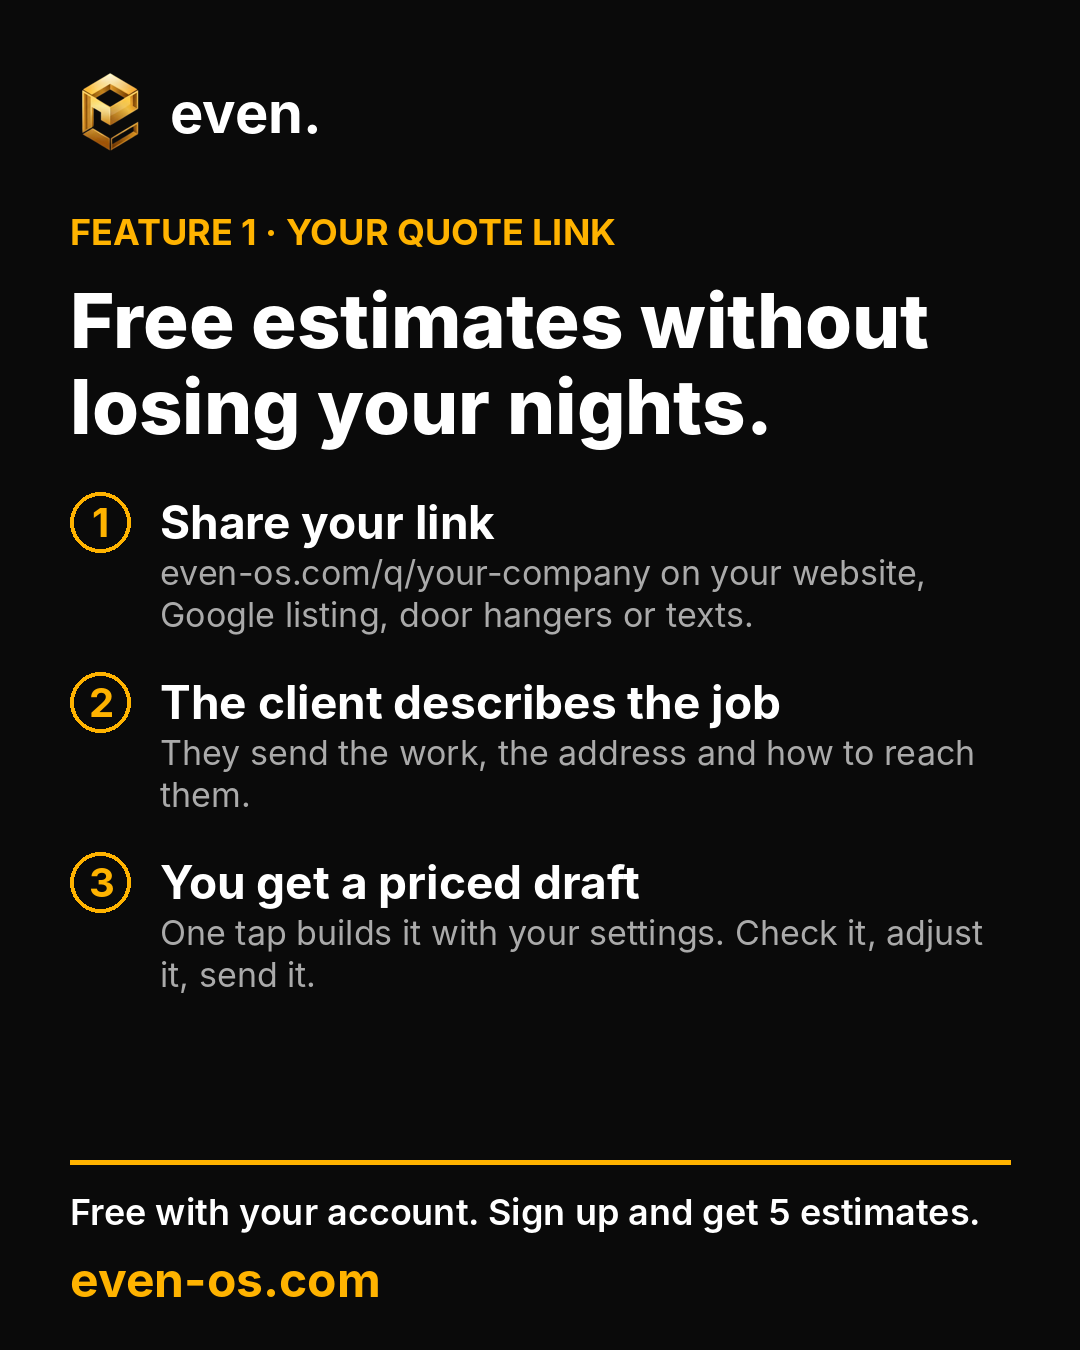
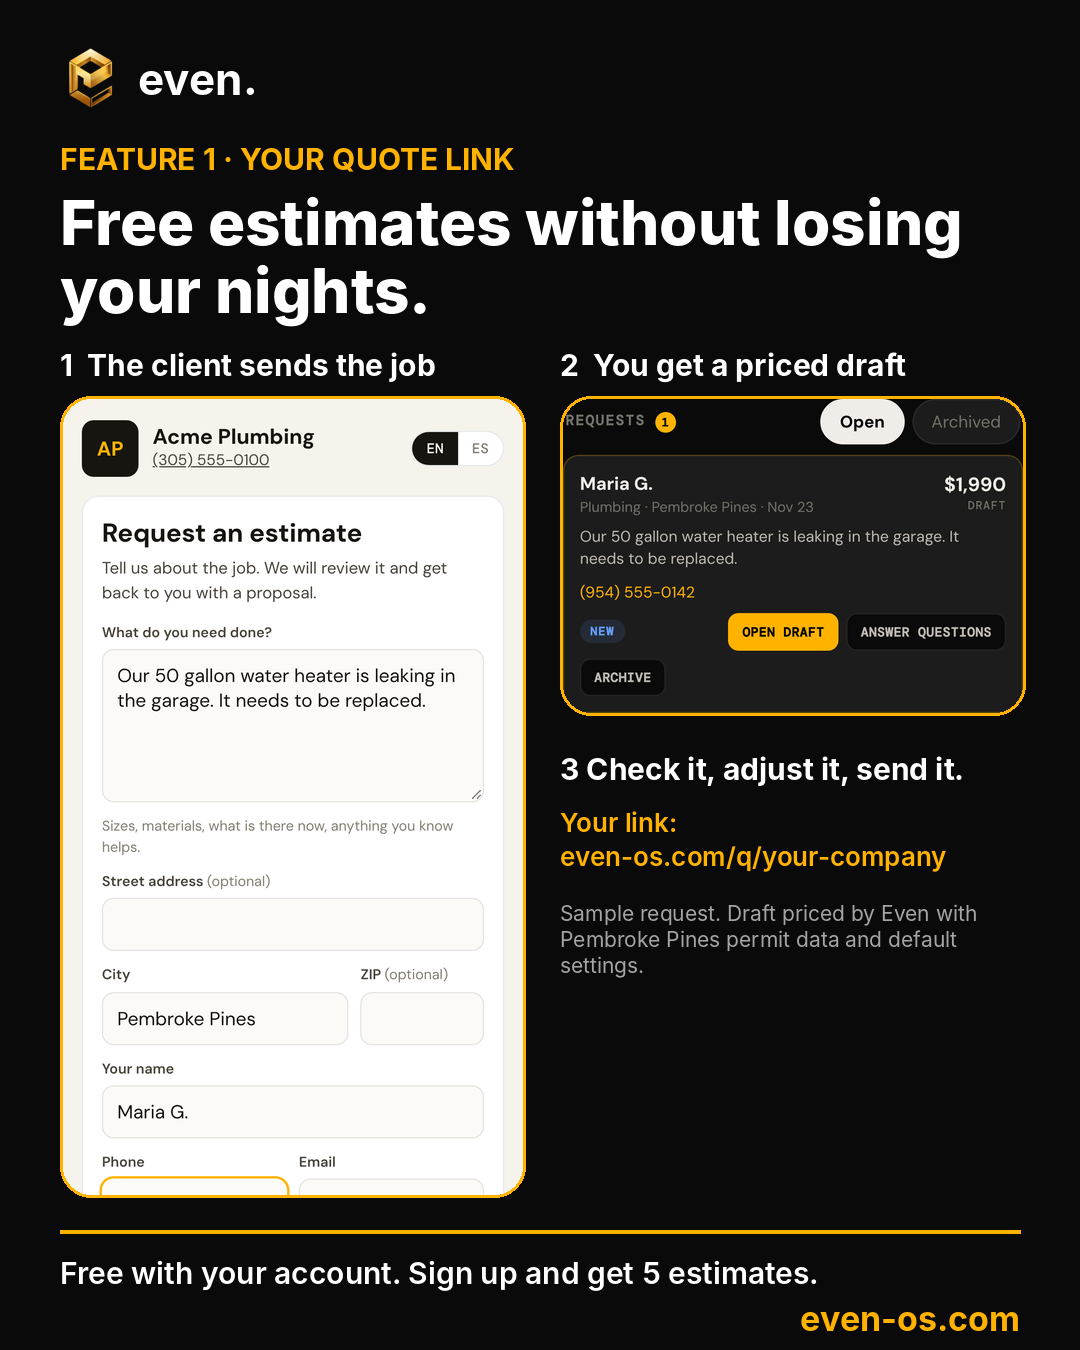
Week of Nov 23: photo posts redone with real app screenshots (quote link form + draft inbox, questions card)
Claude-Session: https://claude.ai/code/session_01XkLHUbM8K3mCJzsPXWybn3

diff --git a/marketing/export/make_feature_stills.py b/marketing/export/make_feature_stills.py
@@ -1,0 +1,91 @@
+# Photo posts with the feature ON SCREEN (founder rule 2026-11-23: every piece of
+# content shows the feature visually, never text only). Screenshots are the real
+# app pages with sample data (a made-up client); any price shown is computed by
+# the real pricing engine on real data, and the image says it is a sample.
+# Usage: python3 make_feature_stills.py <out_dir> <shots_dir>
+#   shots_dir: q_form_{en,es}.png, q_inbox_{en,es}.png (3x phone shots), qcard_{en,es}.png (2x frame)
+import os, sys
+from PIL import Image, ImageDraw, ImageFont
+
+OUT, SH = sys.argv[1], sys.argv[2]
+HERE = os.path.dirname(__file__)
+GOLD, WHITE, MUTED, BG, GREEN = (255, 179, 0), (255, 255, 255), (165, 165, 165), (10, 10, 10), (60, 207, 110)
+F = lambda w, s: ImageFont.truetype('/usr/share/fonts/opentype/inter/Inter-%s.otf' % w, s)
+LOGO = Image.open(os.path.join(HERE, '..', '..', 'assets', 'logo-hero.png')).convert('RGBA')
+W, H = 1080, 1350
+
+def wrap(d, text, font, width):
+    out, ln = [], ''
+    for w in text.split():
+        t = (ln + ' ' + w).strip()
+        if d.textlength(t, font=font) > width and ln: out.append(ln); ln = w
+        else: ln = t
+    return out + ([ln] if ln else [])
+
+def text(d, s, font, x, y, fill, width, gap=8):
+    for ln in wrap(d, s, font, width): d.text((x, y), ln, font=font, fill=fill); y += font.size + gap
+    return y
+
+def shot(img, w, radius=28, border=GOLD):
+    img = img.resize((w, int(img.height * w / img.width)), Image.LANCZOS)
+    m = Image.new('L', img.size, 0); ImageDraw.Draw(m).rounded_rectangle((0, 0, img.width - 1, img.height - 1), radius=radius, fill=255)
+    out = Image.new('RGBA', (img.width + 6, img.height + 6), (0, 0, 0, 0))
+    ImageDraw.Draw(out).rounded_rectangle((0, 0, img.width + 5, img.height + 5), radius=radius + 3, fill=border + (255,))
+    out.paste(img, (3, 3), m)
+    return out
+
+def base(tag, head):
+    im = Image.new('RGB', (W, H), BG); d = ImageDraw.Draw(im)
+    lg = LOGO.resize((64, 64)); im.paste(lg, (60, 46), lg); d.text((138, 52), 'even.', font=F('Bold', 44), fill=WHITE)
+    d.text((60, 140), tag, font=F('Bold', 30), fill=GOLD)
+    y = text(d, head, F('ExtraBold', 62), 60, 184, WHITE, W - 120, 6)
+    return im, d, y
+
+QL = {
+    'en': dict(tag='FEATURE 1 · YOUR QUOTE LINK', head='Free estimates without losing your nights.',
+               l1='1  The client sends the job', l2='2  You get a priced draft', l3='3  Check it, adjust it, send it.',
+               link='Your link: even-os.com/q/your-company', foot='Free with your account. Sign up and get 5 estimates.',
+               note='Sample request. Draft priced by Even with Pembroke Pines permit data and default settings.'),
+    'es': dict(tag='FUNCIÓN 1 · TU LINK DE COTIZACIÓN', head='Estimados gratis sin perder tus noches.',
+               l1='1  El cliente manda el trabajo', l2='2  Recibes un borrador con precio', l3='3  Revísalo, ajústalo y envíalo.',
+               link='Tu link: even-os.com/q/tu-empresa', foot='Gratis con tu cuenta. Regístrate y recibe 5 estimados.',
+               note='Solicitud de ejemplo. Borrador con precio de Even, con datos de permisos de Pembroke Pines y ajustes estándar.'),
+}
+for lang, t in QL.items():
+    im, d, y = base(t['tag'], t['head'])
+    y += 26
+    form = Image.open(os.path.join(SH, f'q_form_{lang}.png')); form = form.crop((0, 0, form.width, int(form.height * 0.80)))
+    inbox = Image.open(os.path.join(SH, f'q_inbox_{lang}.png'))
+    colw = (W - 60 * 2 - 40) // 2
+    d.text((60, y), t['l1'], font=F('Bold', 30), fill=WHITE); d.text((60 + colw + 40, y), t['l2'], font=F('Bold', 30), fill=WHITE)
+    y += 50
+    a = shot(form, colw); im.paste(a, (60, y), a)
+    b = shot(inbox, colw); im.paste(b, (60 + colw + 40, y), b)
+    ry = y + b.height + 34
+    ry = text(d, t['l3'], F('Bold', 30), 60 + colw + 40, ry, WHITE, colw) + 18
+    ry = text(d, t['link'], F('SemiBold', 26), 60 + colw + 40, ry, GOLD, colw) + 26
+    text(d, t['note'], F('Regular', 21), 60 + colw + 40, ry, MUTED, colw, 5)
+    d.rectangle((60, H - 120, W - 60, H - 117), fill=GOLD)
+    d.text((60, H - 96), t['foot'], font=F('SemiBold', 30), fill=WHITE)
+    d.text((W - 60 - d.textlength('even-os.com', font=F('Bold', 34)), H - 52), 'even-os.com', font=F('Bold', 34), fill=GOLD)
+    im.save(os.path.join(OUT, f'3-wed-feature-1-quote-link-{lang}.png'))
+
+V14 = {
+    'en': dict(tag='EVEN 1.4 · WHAT\'S NEW', head='Your estimate builds as you answer.',
+               items=['Big plan sets upload, Even keeps your trade\'s sheets', 'Same job, same price in English or Spanish']),
+    'es': dict(tag='EVEN 1.4 · LO NUEVO', head='Tu estimado se arma mientras respondes.',
+               items=['Planos grandes: Even usa las hojas de tu oficio', 'El mismo precio en inglés o en español']),
+}
+for lang, t in V14.items():
+    im, d, y = base(t['tag'], t['head'])
+    y += 18
+    for it in t['items']:
+        d.ellipse((60, y + 4, 92, y + 36), fill=GREEN); d.text((67, y + 3), '✓', font=F('Bold', 24), fill=BG)
+        y = text(d, it, F('SemiBold', 30), 108, y, WHITE, W - 170) + 12
+    y += 14
+    top = {'en': 400, 'es': 520}[lang]  # the Spanish page sits lower (longer question text)
+    card = Image.open(os.path.join(SH, f'qcard_{lang}.png')).crop((0, top, 780, top + 960))
+    s = shot(card, 600); im.paste(s, ((W - s.width) // 2, y), s)
+    d.text(((W - d.textlength('even-os.com', font=F('Bold', 40))) // 2, H - 70), 'even-os.com', font=F('Bold', 40), fill=GOLD)
+    im.save(os.path.join(OUT, f'1-mon-even-1-4-{lang}.png'))
+print('done')
